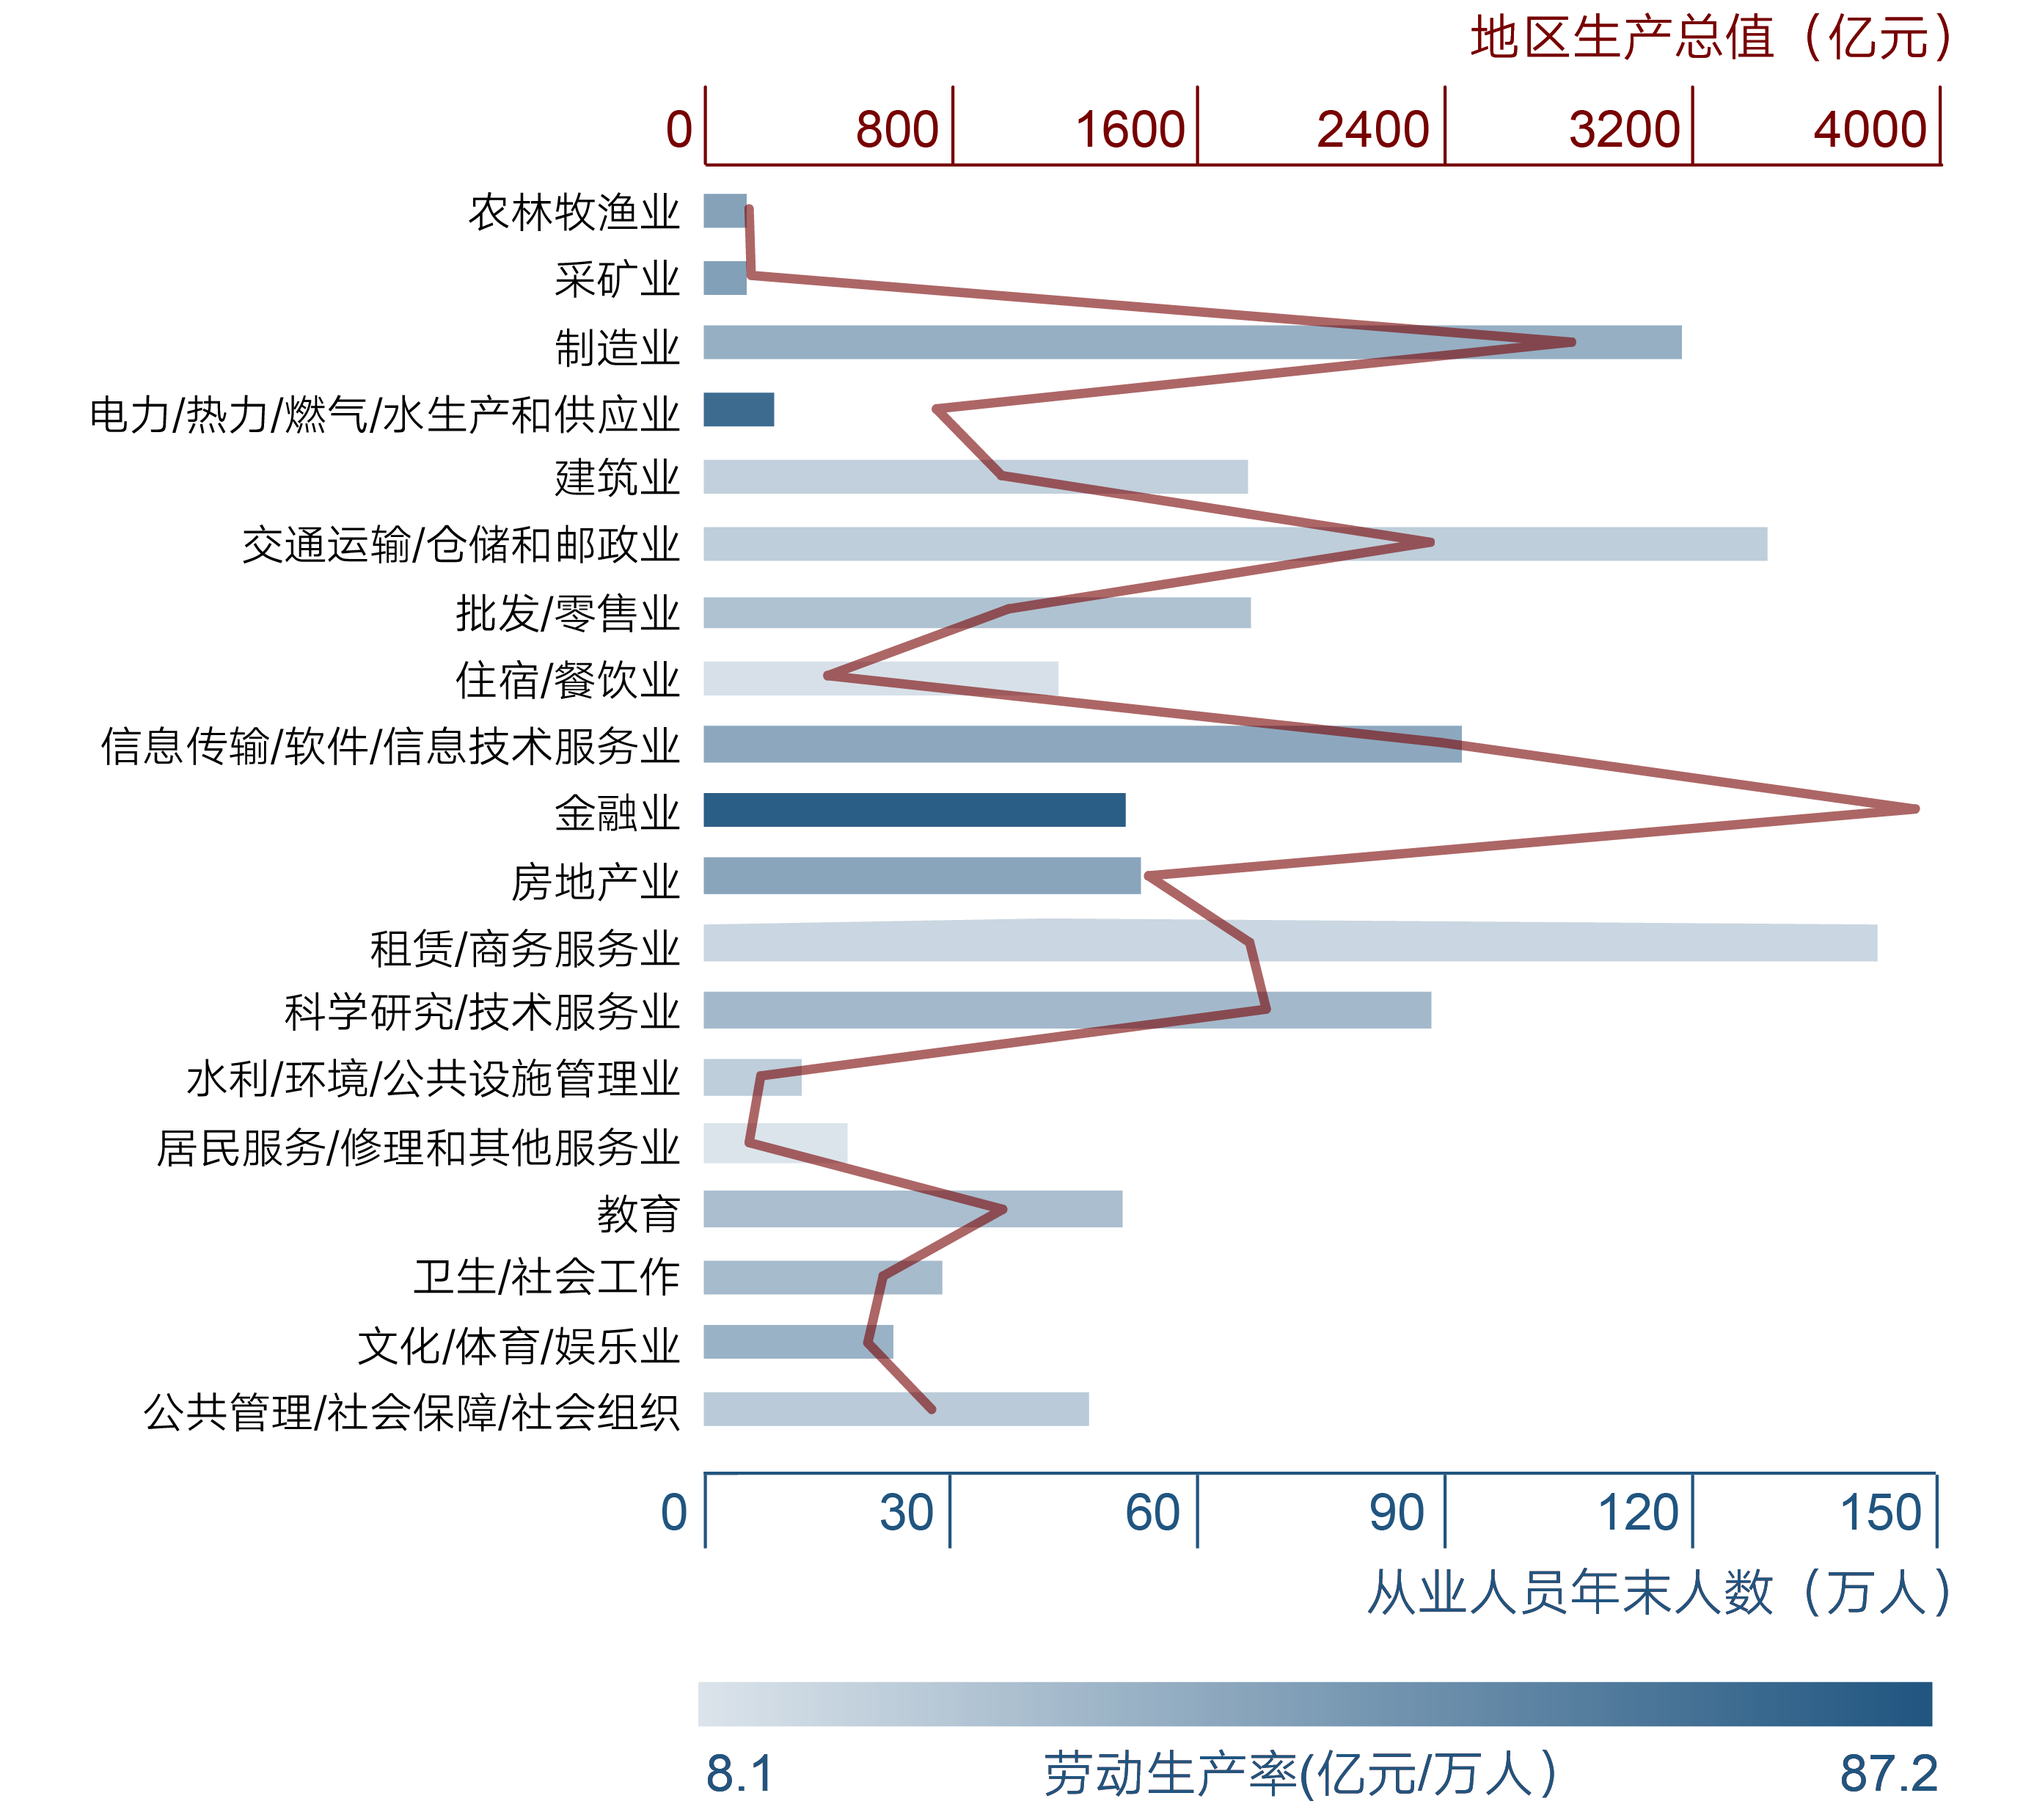
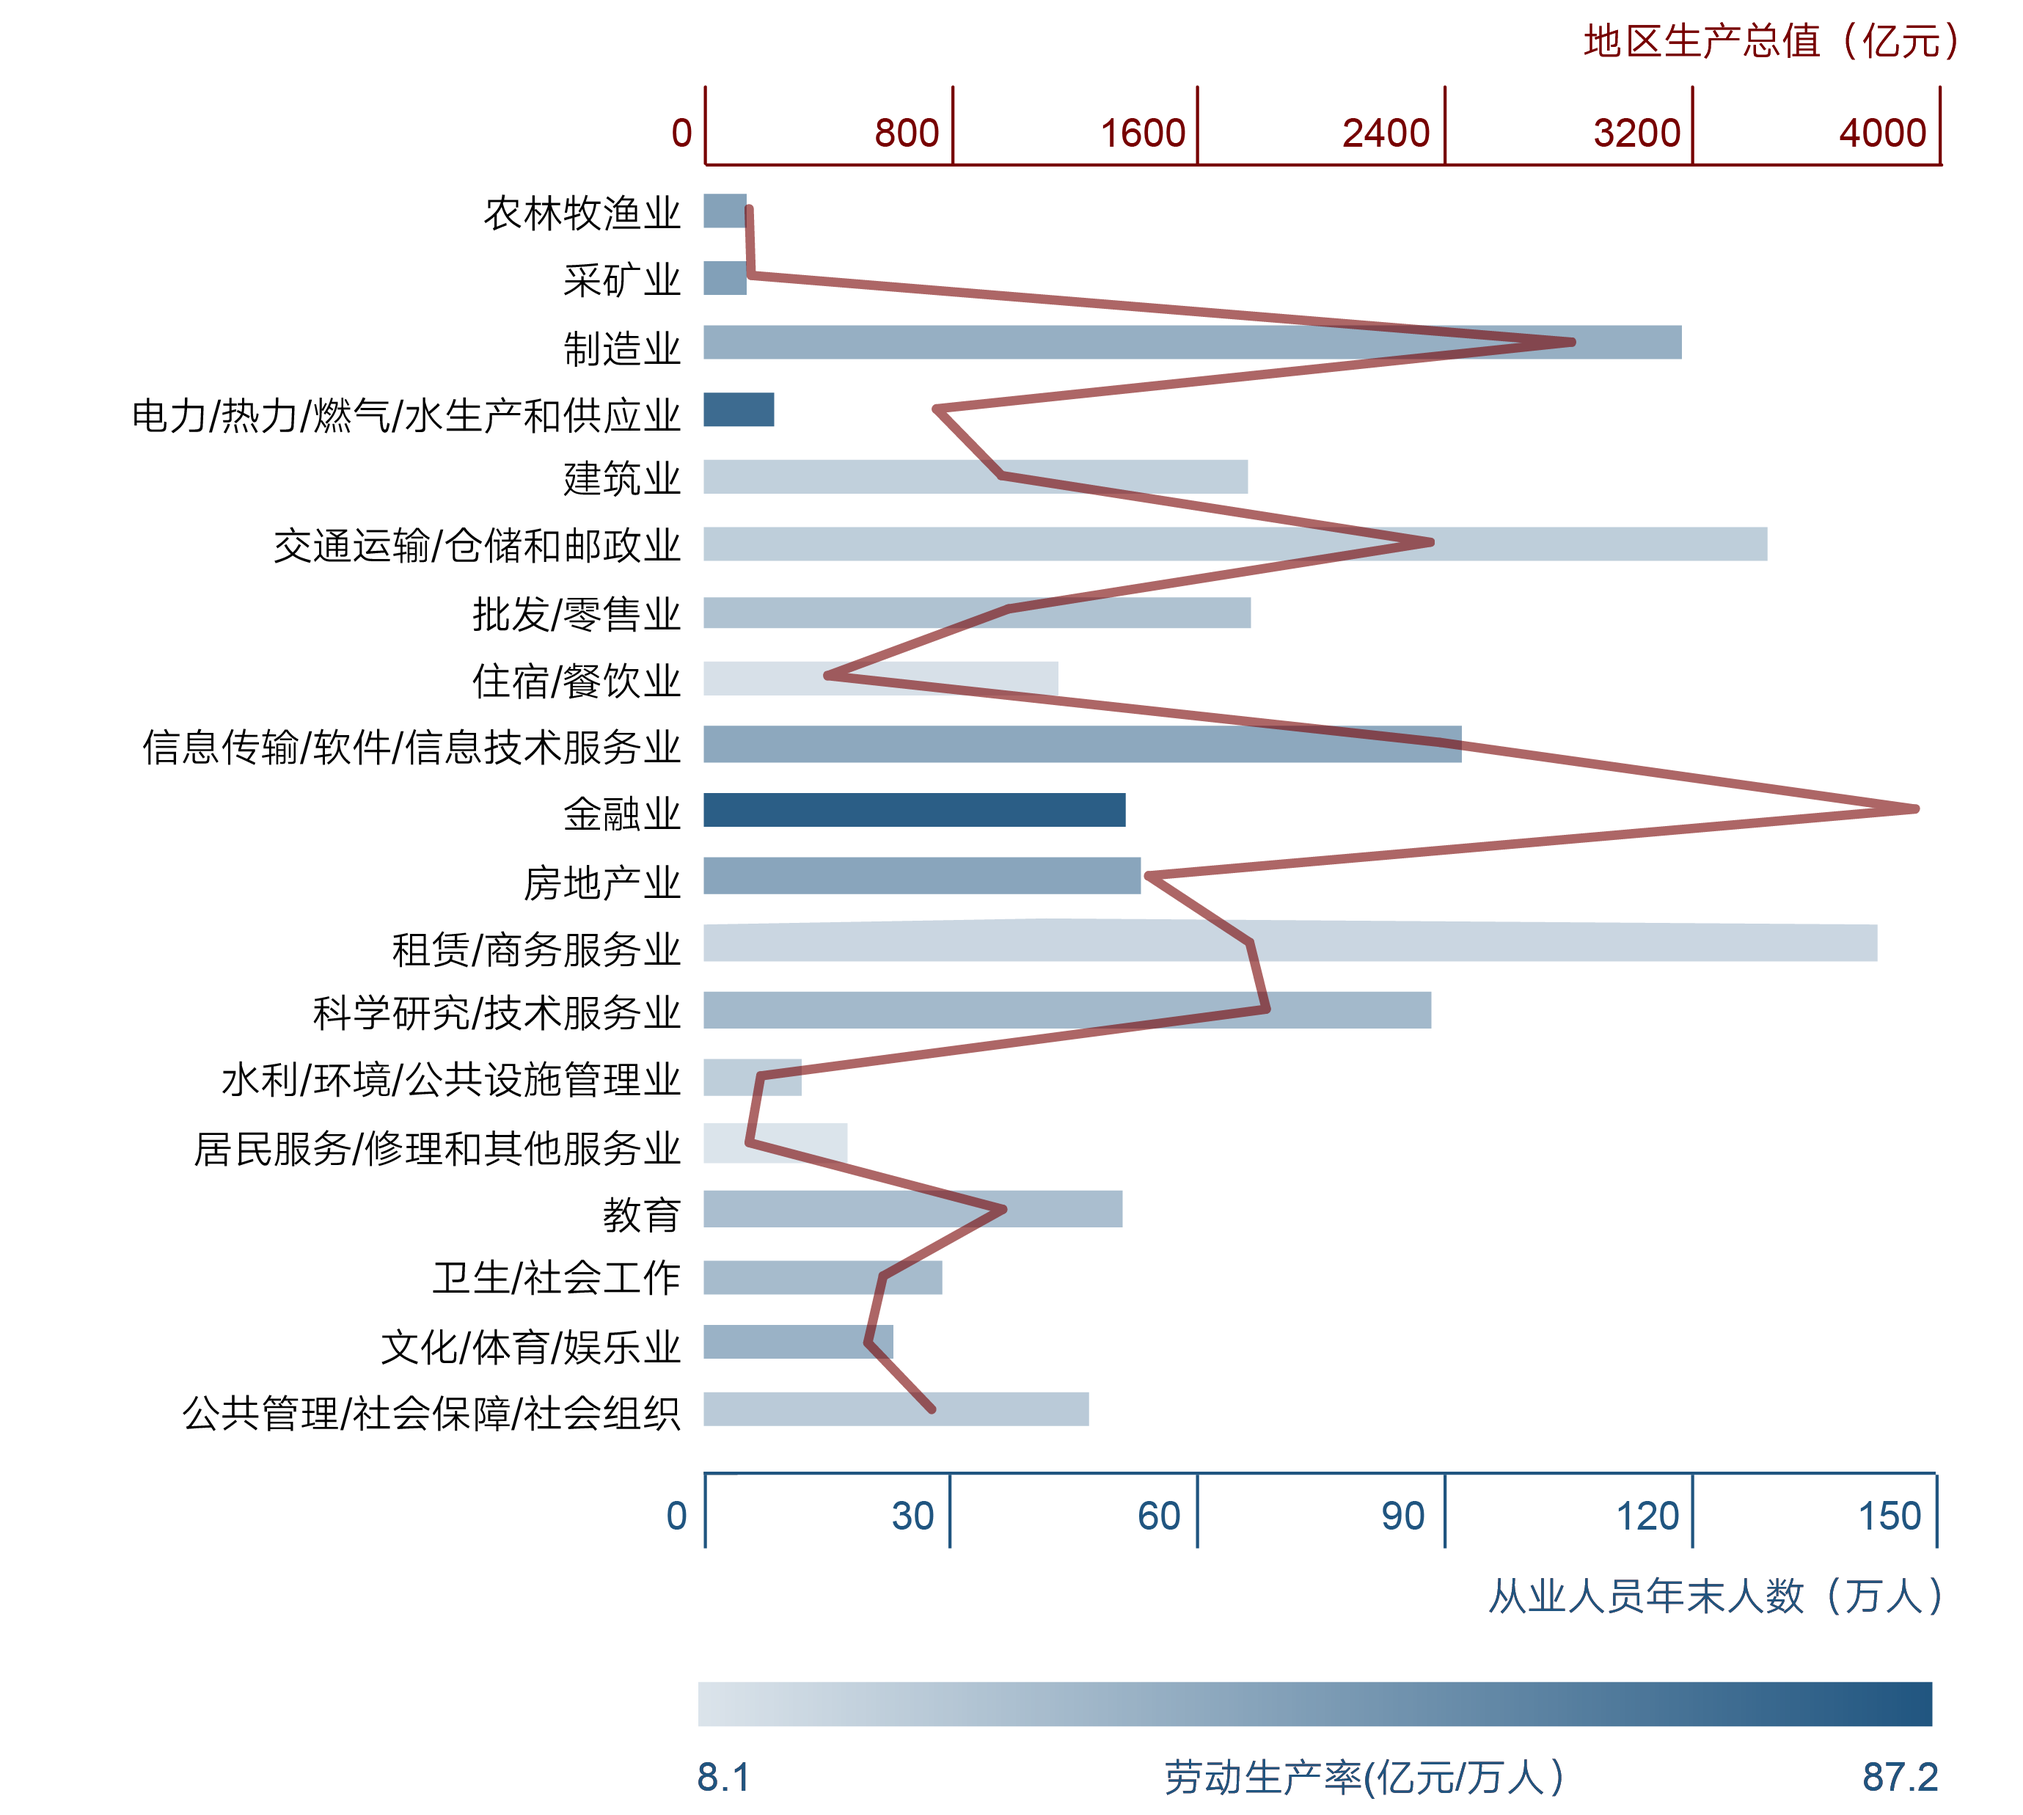
revise

diff --git a/chart2responsive_frame2.html b/chart2responsive_frame2.html
@@ -97,11 +97,11 @@
     .axis text,
     .axis_left text {
       font-family: 'hyqihei50j';
-      font-size: 14px;
+      font-size: 18px;
     }
 
       .labels{
-        font-size: 14.5px;
+        font-size: 20px;
         font-family: 'hyqihei50j';
       }
     }
@@ -230,7 +230,7 @@
 
          svg.append("g")
              .attr("class", "axis_left")
-             .attr("transform", "translate("+(margin*5.9)+" ,"+margin*0.6+")")
+             .attr("transform", "translate("+(margin*6.9)+" ,"+margin*0.6+")")
              .call(xAxis_left);
 
 
@@ -254,7 +254,7 @@
 
       svg.append("g")
            .attr("class", "axis")
-           .attr("transform", "translate(" + (width/2) + "," + margin*0.6 + ")")
+           .attr("transform", "translate(" + (width/2+margin) + "," + margin*0.6 + ")")
            .call(xAxis);
 
 
@@ -329,7 +329,7 @@
         })
         .attr("height", yScale.rangeBand())
         .attr("transform", function(d,i){
-                  return "translate("+[(width/2-xScale(+d.percent))+margin, yScale(i)] +")"
+                  return "translate("+[(width/2-xScale(+d.percent))+margin*2, yScale(i)] +")"
                 });
 
 
@@ -352,7 +352,7 @@
       labels.transition()
           .duration(300)
           .attr("transform", function(d,i){
-              return "translate("+(margin*0)+ "," + (yScale(i)+margin*0.8) +")";
+              return "translate("+(margin)+ "," + (yScale(i)+margin*0.8) +")";
             })
           .text(function(d){
               return d.class;
@@ -390,7 +390,7 @@
         })
         .attr("height", yScale.rangeBand())
         .attr("transform", function(d,i){
-          return "translate("+[width/2+margin, yScale(i)] +")"
+          return "translate("+[width/2+margin*2, yScale(i)] +")"
         });
 
        svg.select(".axis").transition().duration(1000).call(xAxis);
@@ -412,7 +412,7 @@
       labels.transition()
           .duration(300)
           .attr("transform", function(d,i){
-              return "translate("+(width - margin*2)+ "," + (yScale(i)+margin*0.8) +")";
+              return "translate("+(width - margin)+ "," + (yScale(i)+margin*0.8) +")";
             })
           .text(function(d){
               return d.percent+"%";
@@ -422,7 +422,7 @@
      };
 
      svg.append("text")
-      .attr("x", "880")
+      .attr("x", "915")
       .attr("y", "10")
       .text("(%)");
 

diff --git a/css/styles.css b/css/styles.css
@@ -300,13 +300,13 @@
       }
 
       .container {
-        height：3950px;
+        height: 3900px;
       }
 
        @media screen and (min-width: 30em) {
         .container {
           width: 1280px;
-          height: 4050px;
+          height: 4200px;
           margin-left: auto;
           margin-right: auto;
         }
@@ -360,12 +360,12 @@
       }
 
       #talents {
-        height: 1750px;
+        height: 1680px;
       }
 
       @media screen and (min-width: 30em){
         #talents {
-          height: 1950px;
+          height: 2100px;
         }
       }
 
@@ -479,7 +479,7 @@
       @media screen and (min-width:30em){
         .chart3 {
           width: 55%;
-          margin-left: 22.5%
+          margin-left: 24%
         }
       }
 
